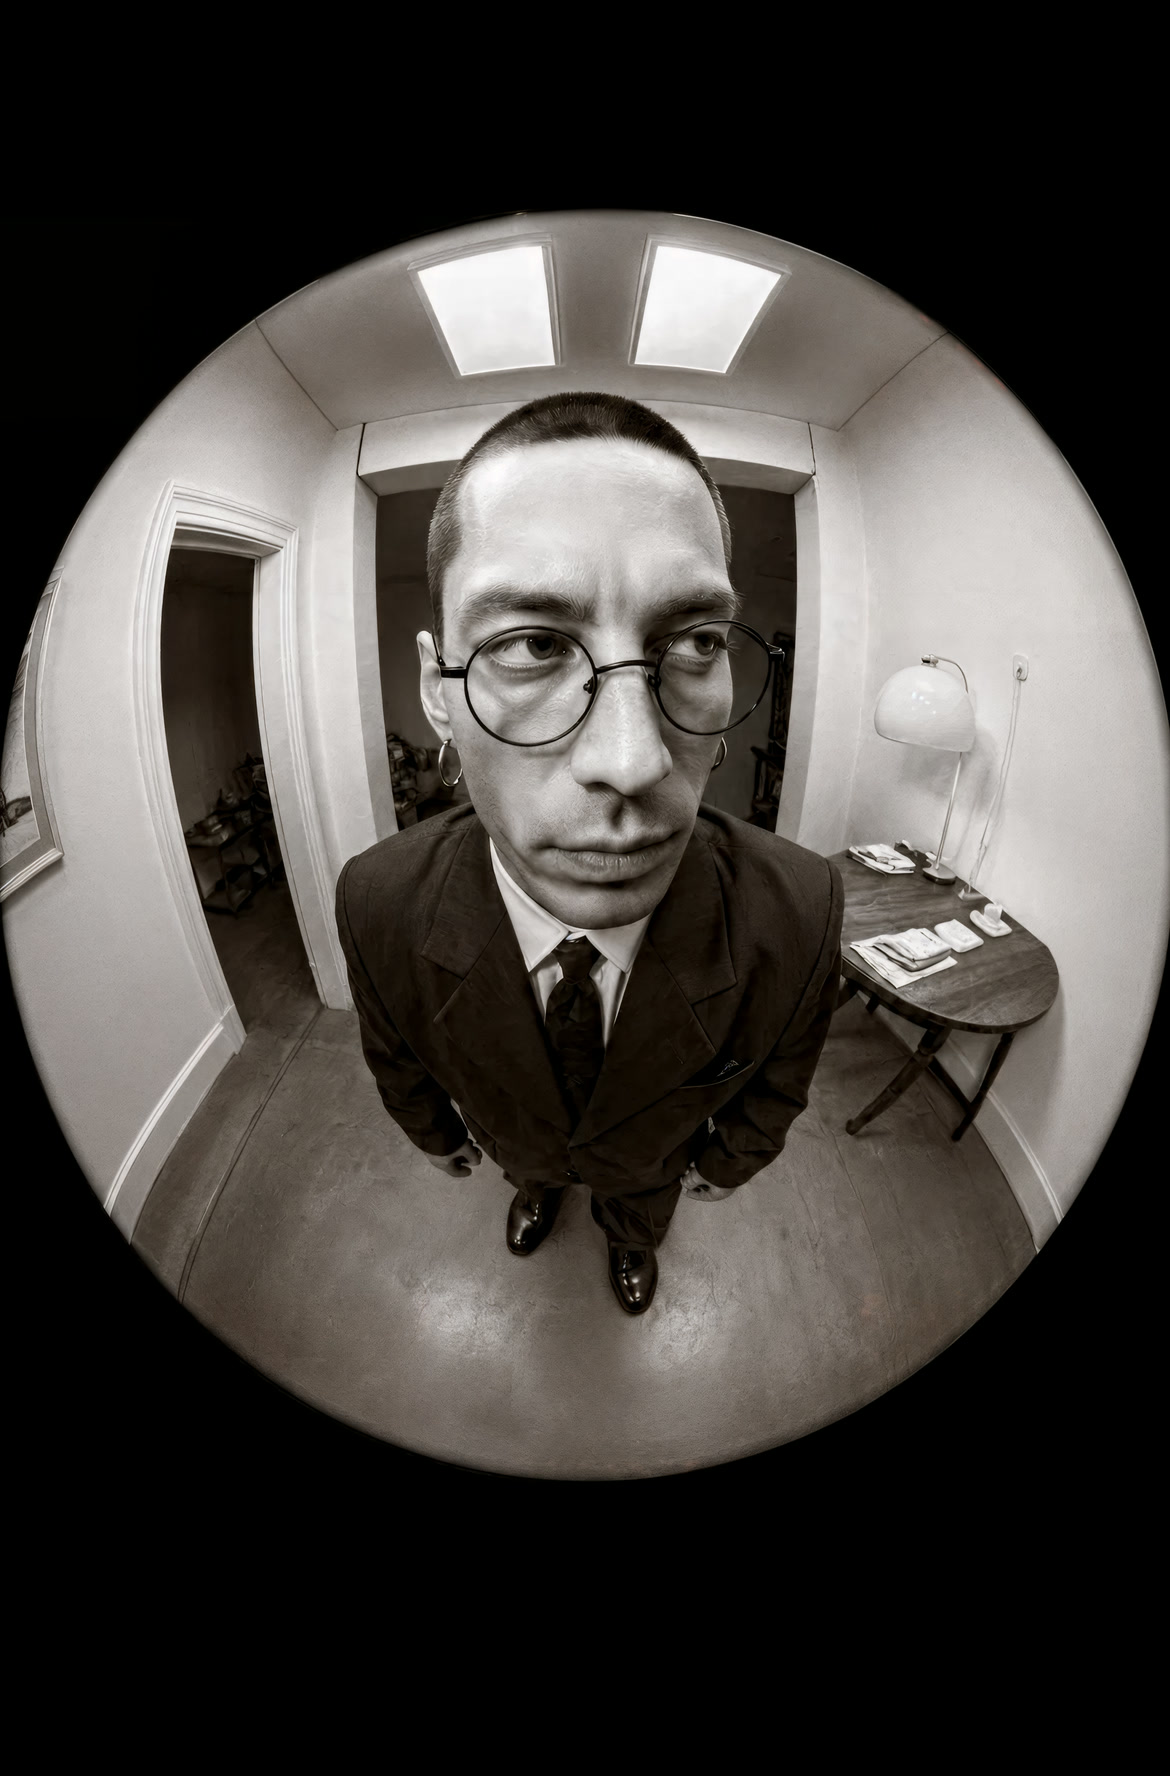
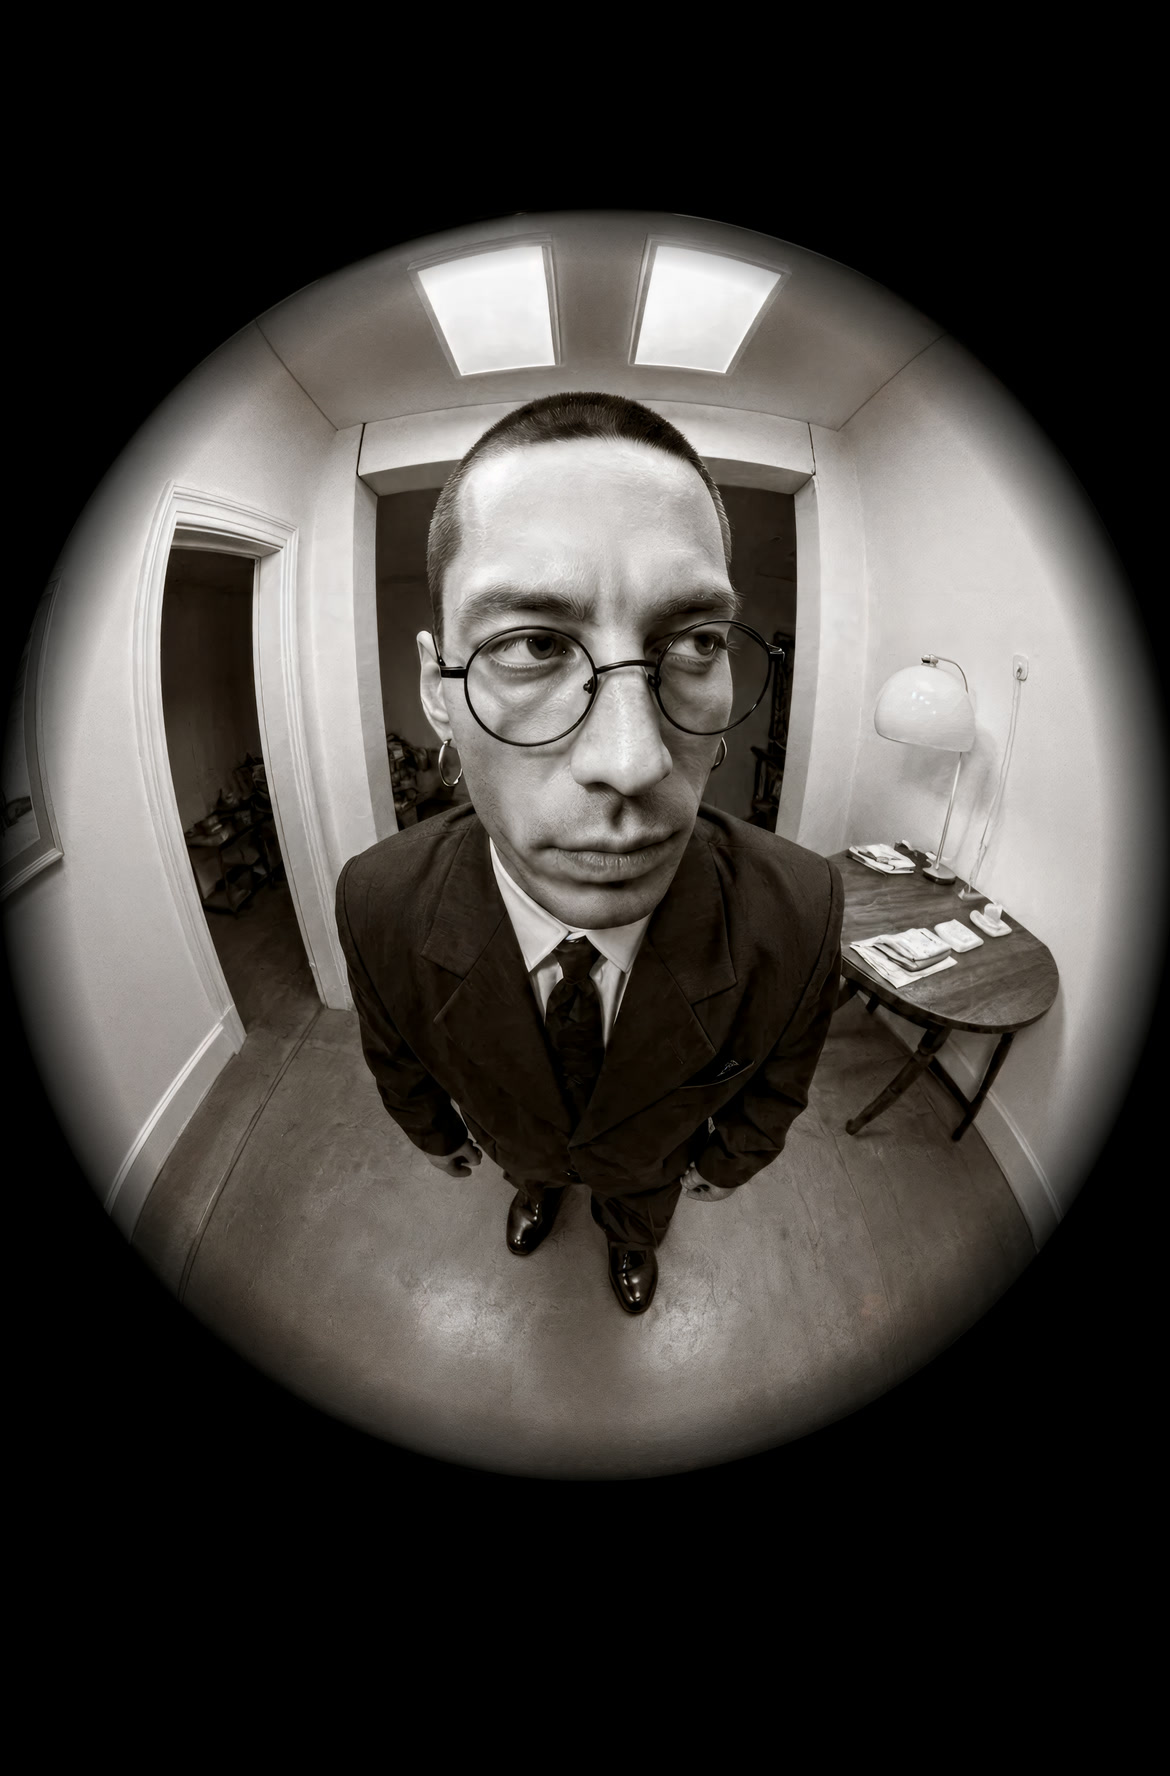
Restore mobile portrait gradient

Changed region(s): [[0.0, 0.0929, 1.0, 0.8361]]

diff --git a/index.html b/index.html
@@ -27,7 +27,7 @@
       <section class="hero page" id="home" aria-labelledby="hero-title">
         <div class="hero__stage">
           <picture class="hero__portrait" aria-hidden="true">
-            <source media="(max-width: 1023px)" srcset="portrait-layer-mobile.jpg?v=20260825-3" />
+            <source media="(max-width: 1023px)" srcset="portrait-layer-mobile.jpg?v=20260825-4" />
             <img src="portrait-layer.png?v=20260825-2" alt="" />
           </picture>
 
